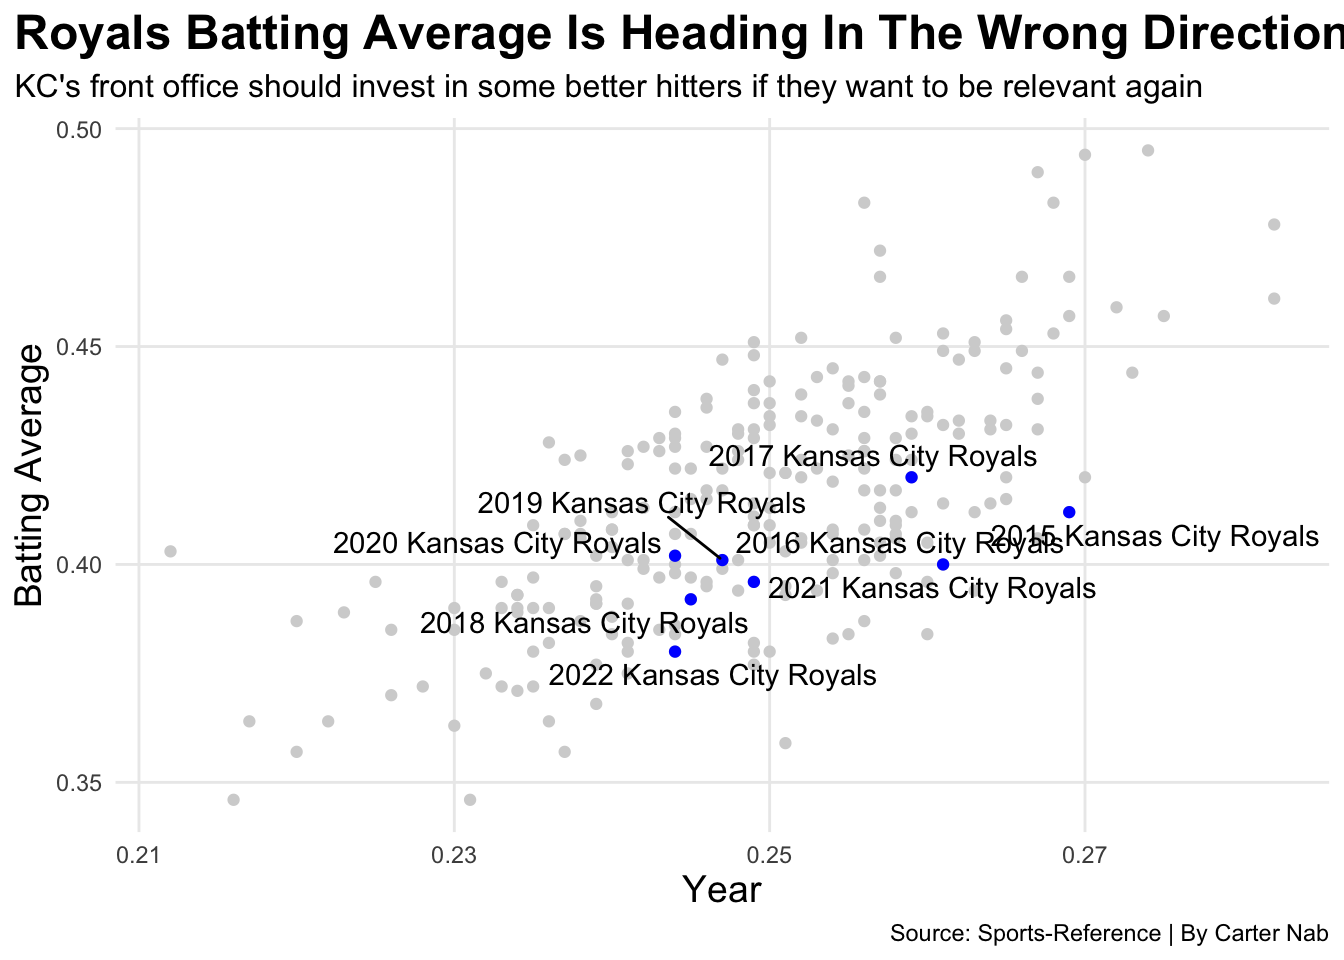
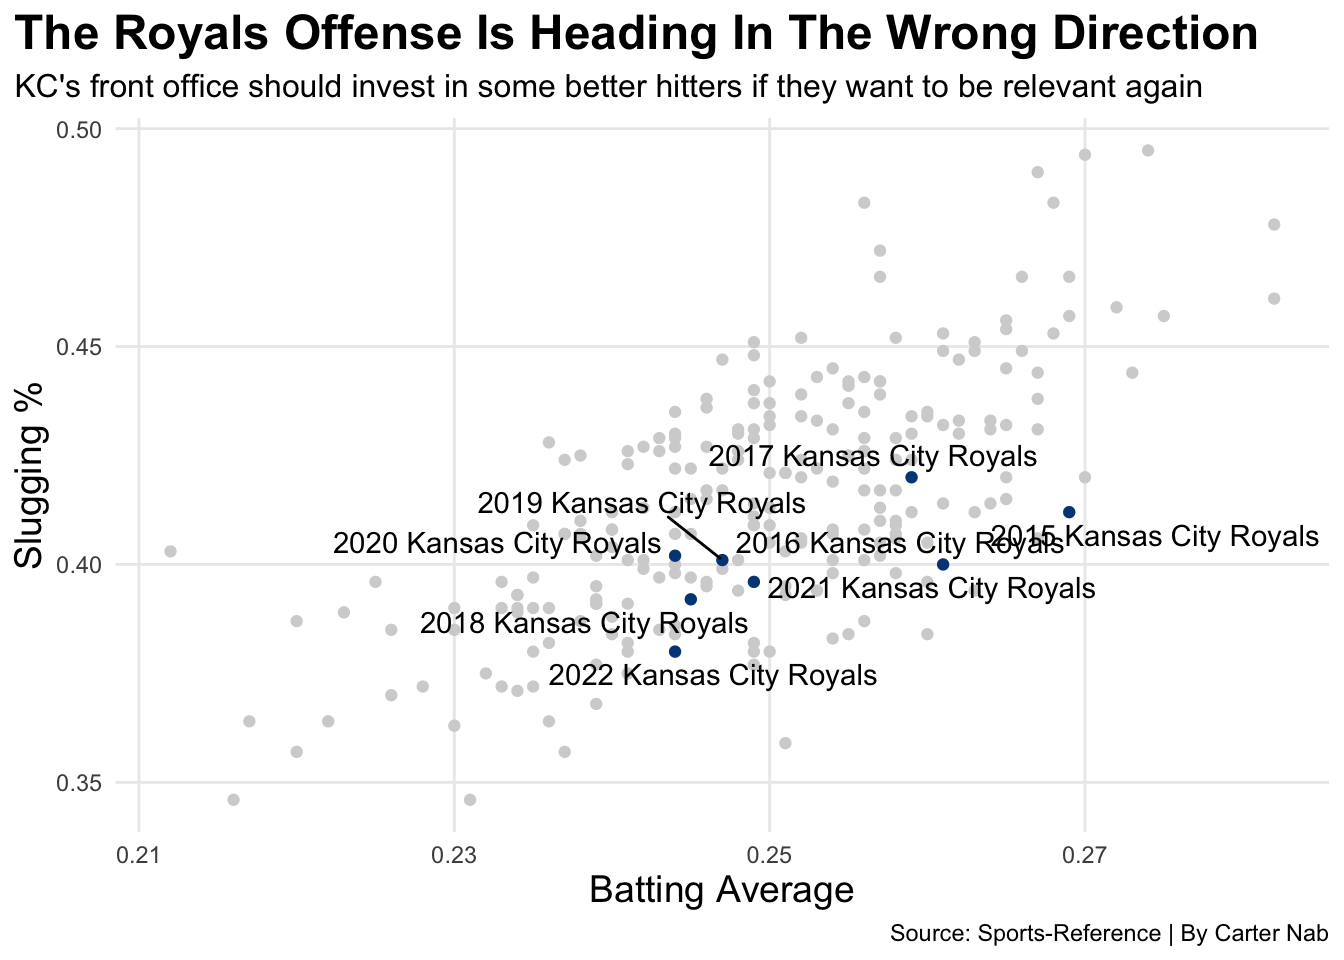
final changes

diff --git a/posts/the-downfall-of-the-royals/index.html b/posts/the-downfall-of-the-royals/index.html
@@ -201,7 +201,7 @@ code span.wa { color: #60a0b0; font-weight: bold; font-style: italic; } /* Warni
 
 <p>The Kansas City Royals won the World Series in 1985 only to go on a thirty year drought. Their miraculous run in 2015 started with the ALDS vs the Houston Astros where the Royals won the series 3-2. Next they faced the Toronto Blue Jays in the AL championship where the Royals won the series 4-2. Lastly, facing the New York Mets in the World Series where the Royals destroyed them 4-1 in the series.</p>
 <p>Since winning it all, the Royals have strung together some rather atrocious seasons. To be a playoff caliber ball club, you must excel on both sides of the game, offense and defense which the Royals haven’t seemed to do.</p>
-<p>The story that I’m aiming to tell here is the downfall of the Kansas City Royals since winning the World Series in 2015. I hypothesize that since 2015 the Royals have fallen well below average in three different phases of the game: Pitching, Fielding, and Batting. In order to investigate the Royals on these three phases, we need to look at change over time (2015-2022). The metrics I’ve chosen to look at are Earned Run Average (ERA) for Pitching, Defensive Efficiency (% of balls in play converted into outs) for Fielding, and Batting Average (hits/at bats) for Batting.</p>
+<p>The story that I’m aiming to tell here is the downfall of the Kansas City Royals since winning the World Series in 2015. I hypothesize that since 2015 the Royals have fallen well below average in three different phases of the game: Pitching, Fielding, and Batting. In order to investigate the Royals on these three phases, we need to look at change over time (2015-2022). The metrics I’ve chosen to look at are Earned Run Average (ERA) for Pitching, Defensive Efficiency (% of balls in play converted into outs) for Fielding, and Batting Average (hits/at bats) and Slugging % (total bases/at bats) for Batting.</p>
 <div class="cell">
 <details>
 <summary>Code</summary>
@@ -225,7 +225,7 @@ code span.wa { color: #60a0b0; font-weight: bold; font-style: italic; } /* Warni
 <span id="cb1-18"><a href="#cb1-18" aria-hidden="true" tabindex="-1"></a>    <span class="fu">summarise</span>(<span class="at">mean_ERA=</span><span class="fu">mean</span>(ERA))</span>
 <span id="cb1-19"><a href="#cb1-19" aria-hidden="true" tabindex="-1"></a><span class="fu">ggplot</span>() <span class="sc">+</span> </span>
 <span id="cb1-20"><a href="#cb1-20" aria-hidden="true" tabindex="-1"></a>  <span class="fu">geom_line</span>(<span class="at">data=</span>pitching, <span class="fu">aes</span>(<span class="at">x=</span>Season, <span class="at">y=</span>ERA, <span class="at">group=</span>Tm), <span class="at">color=</span><span class="st">"light grey"</span>) <span class="sc">+</span></span>
-<span id="cb1-21"><a href="#cb1-21" aria-hidden="true" tabindex="-1"></a>  <span class="fu">geom_line</span>(<span class="at">data=</span>yalsP, <span class="fu">aes</span>(<span class="at">x=</span>Season, <span class="at">y=</span>ERA), <span class="at">color=</span><span class="st">"blue"</span>) <span class="sc">+</span></span>
+<span id="cb1-21"><a href="#cb1-21" aria-hidden="true" tabindex="-1"></a>  <span class="fu">geom_line</span>(<span class="at">data=</span>yalsP, <span class="fu">aes</span>(<span class="at">x=</span>Season, <span class="at">y=</span>ERA), <span class="at">color=</span><span class="st">"#004687"</span>) <span class="sc">+</span></span>
 <span id="cb1-22"><a href="#cb1-22" aria-hidden="true" tabindex="-1"></a>  <span class="fu">geom_line</span>(<span class="at">data=</span>averageERA, <span class="fu">aes</span>(<span class="at">x=</span>Season, <span class="at">y=</span>mean_ERA), <span class="at">color=</span><span class="st">"black"</span>)<span class="sc">+</span></span>
 <span id="cb1-23"><a href="#cb1-23" aria-hidden="true" tabindex="-1"></a>  <span class="fu">scale_y_continuous</span>(<span class="at">limits =</span> <span class="fu">c</span>(<span class="dv">2</span>, <span class="dv">6</span>)) <span class="sc">+</span></span>
 <span id="cb1-24"><a href="#cb1-24" aria-hidden="true" tabindex="-1"></a><span class="fu">labs</span>(</span>
@@ -304,7 +304,7 @@ code span.wa { color: #60a0b0; font-weight: bold; font-style: italic; } /* Warni
 <p><img src="index_files/figure-html/unnamed-chunk-2-1.png" class="img-fluid" width="672"></p>
 </div>
 </div>
-<p>hex= #004687 Defensive Efficiency calculates the percentage of balls hit into play that are turned into outs. Most teams at the professional level are quite good at this so the deviation from team to team stays with-in about 10%.</p>
+<p>Defensive Efficiency calculates the percentage of balls hit into play that are turned into outs. Most teams at the professional level are quite good at this so the deviation from team to team stays with-in about 10%.</p>
 <p>The only time in the last seven years the Royals were above the league average was in 2015, since then they continue to move further below average and were particularly bad in this 2022 season.</p>
 <div class="cell">
 <details>
@@ -328,12 +328,12 @@ code span.wa { color: #60a0b0; font-weight: bold; font-style: italic; } /* Warni
 <span id="cb3-17"><a href="#cb3-17" aria-hidden="true" tabindex="-1"></a></span>
 <span id="cb3-18"><a href="#cb3-18" aria-hidden="true" tabindex="-1"></a><span class="fu">ggplot</span>() <span class="sc">+</span> </span>
 <span id="cb3-19"><a href="#cb3-19" aria-hidden="true" tabindex="-1"></a>  <span class="fu">geom_point</span>(<span class="at">data=</span>batting, <span class="fu">aes</span>(<span class="at">x=</span>BA, <span class="at">y=</span>SLG, <span class="at">group=</span>Tm), <span class="at">color=</span><span class="st">"light grey"</span>) <span class="sc">+</span></span>
-<span id="cb3-20"><a href="#cb3-20" aria-hidden="true" tabindex="-1"></a>  <span class="fu">geom_point</span>(<span class="at">data=</span>yalsO, <span class="fu">aes</span>(<span class="at">x=</span>BA, <span class="at">y=</span>SLG), <span class="at">color=</span><span class="st">"blue"</span>) <span class="sc">+</span></span>
+<span id="cb3-20"><a href="#cb3-20" aria-hidden="true" tabindex="-1"></a>  <span class="fu">geom_point</span>(<span class="at">data=</span>yalsO, <span class="fu">aes</span>(<span class="at">x=</span>BA, <span class="at">y=</span>SLG), <span class="at">color=</span><span class="st">"#004687"</span>) <span class="sc">+</span></span>
 <span id="cb3-21"><a href="#cb3-21" aria-hidden="true" tabindex="-1"></a>  <span class="fu">geom_text_repel</span>(<span class="at">data=</span>yalsO, <span class="fu">aes</span>(<span class="at">x=</span>BA, <span class="at">y=</span>SLG, <span class="at">label=</span>teamseason), <span class="at">color=</span><span class="st">"black"</span>) <span class="sc">+</span></span>
 <span id="cb3-22"><a href="#cb3-22" aria-hidden="true" tabindex="-1"></a>  <span class="fu">labs</span>(</span>
-<span id="cb3-23"><a href="#cb3-23" aria-hidden="true" tabindex="-1"></a>    <span class="at">x=</span><span class="st">"Year"</span>, </span>
-<span id="cb3-24"><a href="#cb3-24" aria-hidden="true" tabindex="-1"></a>    <span class="at">y=</span><span class="st">"Batting Average"</span>, </span>
-<span id="cb3-25"><a href="#cb3-25" aria-hidden="true" tabindex="-1"></a>    <span class="at">title=</span><span class="st">"Royals Batting Average Is Heading In The Wrong Direction"</span>, </span>
+<span id="cb3-23"><a href="#cb3-23" aria-hidden="true" tabindex="-1"></a>    <span class="at">x=</span><span class="st">"Batting Average"</span>, </span>
+<span id="cb3-24"><a href="#cb3-24" aria-hidden="true" tabindex="-1"></a>    <span class="at">y=</span><span class="st">"Slugging %"</span>, </span>
+<span id="cb3-25"><a href="#cb3-25" aria-hidden="true" tabindex="-1"></a>    <span class="at">title=</span><span class="st">"The Royals Offense Is Heading In The Wrong Direction"</span>, </span>
 <span id="cb3-26"><a href="#cb3-26" aria-hidden="true" tabindex="-1"></a>    <span class="at">subtitle=</span><span class="st">"KC's front office should invest in some better hitters if they want to be relevant again"</span>,</span>
 <span id="cb3-27"><a href="#cb3-27" aria-hidden="true" tabindex="-1"></a>    <span class="at">caption=</span><span class="st">"Source: Sports-Reference | By Carter Nab"</span></span>
 <span id="cb3-28"><a href="#cb3-28" aria-hidden="true" tabindex="-1"></a>    ) <span class="sc">+</span></span>
@@ -350,9 +350,9 @@ code span.wa { color: #60a0b0; font-weight: bold; font-style: italic; } /* Warni
 <p><img src="index_files/figure-html/unnamed-chunk-3-1.png" class="img-fluid" width="672"></p>
 </div>
 </div>
-<p>Compared to the last two charts that analyzed the defensive phases of the game, this chart takes a look at the offensive side of the game represented by each teams batting average over the last seven years.</p>
-<p>While this still shows constant decline the Royals have managed to remain much closer to the leagues average compared to their defensive phases but it’s clear that the Royals offense hasn’t made significant progress since their World Series season.</p>
-<p>In order for the Kansas City Royals to become relevant in the MLB again, the front office will definitely need to re-access the members of the team and attain some new athletes that find into the puzzel of a quality baseball team.</p>
+<p>Compared to the last two charts that analyzed the defensive phases of the game, this chart takes a look at the offensive side of the game represented by each teams batting average and slugging percentage over the last seven years.</p>
+<p>It’s clear that the Royals offense hasn’t made significant progress since their World Series season, 2017 was the closest they’ve been but still failed to make the playoffs.</p>
+<p>In order for the Kansas City Royals to become relevant in the MLB again, the front office will definitely need to re-access the members of the team and attain some new athletes that fit into the puzzel of a quality baseball team.</p>
 
 
 

diff --git a/index.html b/index.html
@@ -157,7 +157,7 @@ ul.task-list{list-style: none;}
 
 <div class="quarto-listing quarto-listing-container-default" id="listing-listing">
 <div class="list quarto-listing-default">
-<div class="quarto-post image-right" data-index="0" data-categories="royals,code,analysis" data-listing-date-sort="1667538000000" data-listing-file-modified-sort="1667773763564" data-listing-reading-time-sort="5.535">
+<div class="quarto-post image-right" data-index="0" data-categories="royals,code,analysis" data-listing-date-sort="1667538000000" data-listing-file-modified-sort="1667774927222" data-listing-reading-time-sort="5.525">
 <div class="thumbnail">
 <p><a href="./posts/the-downfall-of-the-royals/index.html"> <img src="./posts/the-downfall-of-the-royals/image.png" class="thumnail-image"> </a></p>
 </div>
